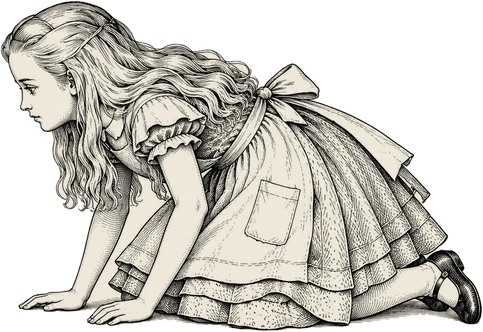
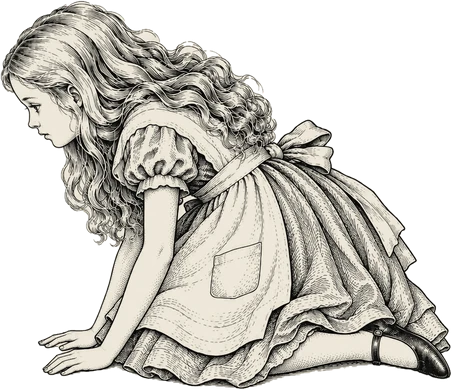
Chapter I: the Rabbit seen from behind down the passage (lighter fog so he stays in sight); the closer kneeling pose
Claude-Session: https://claude.ai/code/session_01XCrTmcLSNBEvemRhk5i2MQ

diff --git a/src/main.js b/src/main.js
@@ -66,7 +66,7 @@ async function main() {
   const AI_ART = ['sky', 'treeline', 'tree', 'hedge', 'grass', 'alice_stand', 'alice_sit', 'sister_read', 'shaft_strip', 'jar',
     'hall/floor', 'hall/lamp', 'hall/curtain', 'hall/door_frame', 'hall/door_leaf',
     'props/key', 'props/bottle', 'props/cake', 'props/box', 'props/fan', // tools/small_props.py
-    'ch1/leaf_heap', 'ch1/alice_land', 'ch1/garden', // tools/ch1_art.py
+    'ch1/leaf_heap', 'ch1/alice_land', 'ch1/garden', 'ch1/rabbit_run_away', // tools/ch1_art.py
     // Chapter II (tools/ch2_art.py): the Rabbit, the Mouse, the birds, props, the pool and the thoughts.
     ...['rabbit2_trot', 'rabbit2_start', 'rabbit2_away', 'mouse_swim', 'mouse_leap', 'mouse_bristle', 'mouse_away',
       'duck_swim', 'duck_stand', 'dodo_swim', 'dodo_stand', 'lory_swim', 'lory_stand', 'eaglet_swim', 'eaglet_stand',
@@ -127,6 +127,8 @@ async function main() {
   const cast = {
     rabbit: new Puppet({
       watch: { ...rabbitArt, facesLeft: true },
+      // Chapter I: seen from behind, running off down the passage (tools/ch1_art.py).
+      runAway: { ...ai['ch1/rabbit_run_away'], facesLeft: true, height: 0.95 },
       // Chapter II: "splendidly dressed", gloves and fan in his paws; starting; scurrying away.
       trot: { ...ai['ch2/rabbit2_trot'], facesLeft: true, height: 0.95 },
       start: { ...ai['ch2/rabbit2_start'], facesLeft: false, height: 1.0 },

diff --git a/src/scenes/passage.js b/src/scenes/passage.js
@@ -81,7 +81,9 @@ export const passage = {
         [T.corner, { x: 0.1, z: CORNER_Z + 1 }],
         [T.corner + 1.8, ROUND],
       ], { pose: 'watch', phase: t * 2.8 });
-      return { ...s, visible: t < T.corner + 1.8 };
+      // Hurrying away down the passage, seen from behind (drawn), until he turns the corner.
+      const away = s.moving && t < T.corner;
+      return { ...s, pose: away ? 'runAway' : 'watch', visible: t < T.corner + 1.8 };
     }
 
     const camera = cameraTrack([
@@ -93,7 +95,7 @@ export const passage = {
     ]);
 
     return {
-      T, bg: '#1a1712', fog: [4, 16],
+      T, bg: '#1a1712', fog: [5, 26], // the Rabbit stays "still in sight" far down the passage
       bounds: { minX: -HALF_W + 0.4, maxX: HALF_W - 0.4, minZ: CORNER_Z + 1, maxZ: 1.5 },
       hotspots: [{ pos: new THREE.Vector3(0, 0.4, -0.6), title: 'A heap of sticks and dry leaves', text: 'down she came upon a heap of sticks and dry leaves, and the fall was over.' }],
       camera,

diff --git a/tools/ch1_art.py b/tools/ch1_art.py
@@ -3,6 +3,7 @@
 - leaf_heap: cut out from white, paper-tinted (the heap of sticks and dry leaves).
 - alice_land: Alice landing on the heap, with the leaves drawn (the drawing includes its own
   heap and flying leaves, so the game shows it in place of the heap at the landing).
+- rabbit_run_away: the White Rabbit seen from behind, running off down the passage.
 - garden_through_door: drawn looking along the little passage; only the garden seen inside
   the far arch is kept (the game draws its own little door and clips the view to its arch).
 
@@ -37,8 +38,9 @@ def whitecut(path, *args):
 
 def main():
     os.makedirs(OUT, exist_ok=True)
-    for n in ("leaf_heap", "alice_land"):
-        img = shrink(whitecut(f"source/ai/{n}.png").convert("RGBA"))
+    for n in ("leaf_heap", "alice_land", "rabbit_run_away"):
+        src = next(f"source/ai/{n}.{e}" for e in ("png", "webp") if os.path.exists(f"source/ai/{n}.{e}"))
+        img = shrink(whitecut(src).convert("RGBA"))
         img.save(f"{OUT}/{n}.webp", quality=90, method=6)
         print(f"{OUT}/{n}.webp: {img.size[0]}x{img.size[1]}")
     # The garden inside the passage's far arch (source pixels, 1024x1536), paper-tinted.

diff --git a/tools/compose_poses.py b/tools/compose_poses.py
@@ -58,7 +58,8 @@ DRAWN = {
     "swim_talk": {"src": "source/ai/alice2_swim_talk.webp", "h": 201, "bodyX": None, "mirror": True},
     # Chapter I.
     "fall": {"src": "source/ai/alice_fall.webp", "h": 698, "bodyX": None},
-    "kneel": {"src": "source/ai/alice_kneel.webp", "h": 332, "bodyX": None, "mirror": True},
+    # The closer redo (cheek near the floor, peering): source/ai/alice_kneel.webp is the spare.
+    "kneel": {"src": "source/ai/alice_kneel_v2.webp", "h": 390, "bodyX": None, "mirror": True},
     "cry": {"src": "source/ai/alice_cry.webp", "h": 485, "bodyX": None},
     "eat": {"src": "source/ai/alice_eat.webp", "h": 753, "bodyX": None},
     "hold": {"src": "source/ai/alice_hold.webp", "h": 700, "bodyX": None},

diff --git a/PROVENANCE.md b/PROVENANCE.md
@@ -116,3 +116,5 @@ Every shipped asset is listed here with its source. AI-generated or AI-modified 
 | ai_alice3_call | `public/art/ai/poses/call.webp` | AI | Generated in the same conversation (docs/ASSETS_MASTER.md, Chapter III prompt 7); original in `source/ai/alice3_call.webp` | OpenAI ChatGPT (GPT-6 chat); OpenAI image generation, exact image model not disclosed; received 2026-10-11 | Whole image generated. Cut out, paper-tinted and scaled to the standing Alice with `tools/compose_poses.py` (via `tools/whitecut.py`). Used in Chapter III: "Please come back and finish your story!" (Drawn with a hand cupped to her mouth.) | 2026-10-12 | Owner (generated), Claude Code (processed) |
 | ai_alice3_alone | `public/art/ai/poses/alone.webp` | AI | Generated in the same conversation (docs/ASSETS_MASTER.md, Chapter III prompt 8); original in `source/ai/alice3_alone.webp` | OpenAI ChatGPT (GPT-6 chat); OpenAI image generation, exact image model not disclosed; received 2026-10-11 | Whole image generated. Cut out, paper-tinted and scaled to the standing Alice with `tools/compose_poses.py` (via `tools/whitecut.py`). Used in Chapter III: crying alone at the end (replaces the reused Chapter I crying pose). | 2026-10-12 | Owner (generated), Claude Code (processed) |
 | ai_alice3_wonder | `public/art/ai/poses/wonder.webp` | AI | Generated in the same conversation (docs/ASSETS_MASTER.md, Chapter III prompt 6); original in `source/ai/alice3_wonder.webp` | OpenAI ChatGPT (GPT-6 chat); OpenAI image generation, exact image model not disclosed; received 2026-10-11 | Whole image generated. Cut out, paper-tinted and scaled to the standing Alice with `tools/compose_poses.py` (via `tools/whitecut.py`). Used in Chapter III: "What a pity it wouldn't stay!" (Drawn looking up, one hand out, not looking down at the tail as asked; to be regenerated.) Mirrored. | 2026-10-12 | Owner (generated), Claude Code (processed) |
+| ai_rabbit_run_away | `public/art/ai/ch1/rabbit_run_away.webp` | AI | Generated in the same conversation (docs/ASSETS_MASTER.md, Chapter I prompt 11); original in `source/ai/rabbit_run_away.webp` | OpenAI ChatGPT (GPT-6 chat); OpenAI image generation, exact image model not disclosed; received 2026-10-12 | Whole image generated. Cut out and paper-tinted (`tools/ch1_art.py`). Used in Chapter I: the Rabbit hurrying away down the long passage. | 2026-10-12 | Owner (generated), Claude Code (processed) |
+| ai_alice_kneel_v2 | `public/art/ai/poses/kneel.webp` | AI | Second version of Chapter I prompt 4 (closer to the prompt); original in `source/ai/alice_kneel_v2.webp` | OpenAI ChatGPT (GPT-6 chat); OpenAI image generation, exact image model not disclosed; received 2026-10-12 | Whole image generated. Cut out, paper-tinted, mirrored and scaled to the standing Alice (`tools/compose_poses.py`). Replaces the first version (`source/ai/alice_kneel.webp`, kept as a spare) at the little door. | 2026-10-12 | Owner (generated), Claude Code (processed) |

diff --git a/docs/ASSETS_MASTER.md b/docs/ASSETS_MASTER.md
@@ -1,7 +1,7 @@
 # Master Asset List
 Generated by `tools/assets_master.py` from the chapter lists. **Don't edit by hand**: change the chapter list in `docs/ART_PROMPTS.md` (and the reasons in `docs/CHAPTER_NN_ASSETS.md`), then run the script.
 
-**Progress:** 69 of 344 images received. A box is ticked when a file with that name is in `source/ai/`.
+**Progress:** 70 of 344 images received. A box is ticked when a file with that name is in `source/ai/`.
 
 ## How to use this document
 1. Use **one ChatGPT conversation** for everything, so the style and the characters stay the same.
@@ -46,7 +46,7 @@ Use the **same ChatGPT conversation** as the turnaround and the earlier pieces s
 
 ### The White Rabbit (match Tenniel's Rabbit exactly: waistcoat, checked jacket, umbrella under the arm, pocket watch; attach the Tenniel 1.2 reference again)
 - [ ] **10.** `rabbit_run_side.png`: "The White Rabbit RUNNING, side view facing left, a long hurried stride, watch in one paw."
-- [ ] **11.** `rabbit_run_away.png`: "The White Rabbit seen FROM BEHIND, running away from us down a passage, ears up, coat tails flying."
+- [x] **11.** `rabbit_run_away.png`: "The White Rabbit seen FROM BEHIND, running away from us down a passage, ears up, coat tails flying."
 - [ ] **12.** `rabbit_hop.png`: "The White Rabbit LEAPING head-first, diving forward and down as into a hole, side view facing right." *(note 6)*
 - [ ] **13.** `rabbit_idle_b.png`: "The White Rabbit standing, same pose as Tenniel's plate but turned slightly toward us, glancing over his shoulder, watch in paw." *(note 11: alternates with the Tenniel pose)*
 
